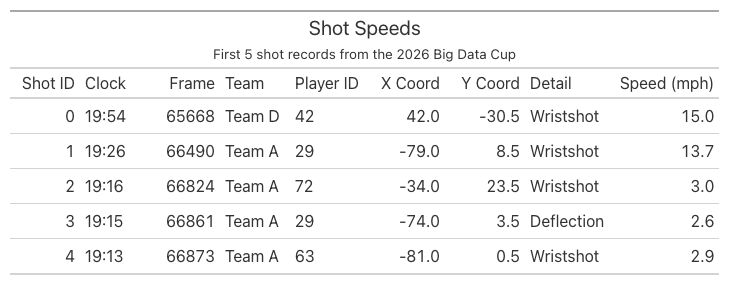
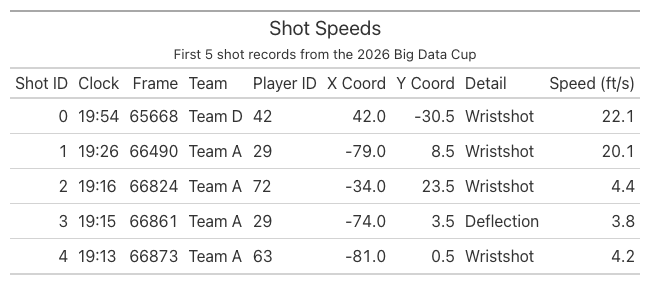
Finish Pressure

diff --git a/docs/posts/feature-based-xg/index.html b/docs/posts/feature-based-xg/index.html
@@ -232,7 +232,7 @@ window.Quarto = {
 <section id="data-import" class="level3">
 <h3 class="anchored" data-anchor-id="data-import">Data Import</h3>
 <p>We import the data from the Big Data Cup 2026 GitHub repository and tag each events and tracking data with a “Game” id. Then, we convert the clock strings (“MM:SS” / “M:SS”) to total seconds for easier comparison and joining between the events and tracking datasets. The tracking data is separated by period (P1/P2/P3/OT), so we concatenate all the tracking files into one dataset of every tracked player-frame across all games and periods.</p>
-<div id="6edd6732" class="cell" data-execution_count="1">
+<div id="0e2e7f79" class="cell" data-execution_count="1">
 <details class="code-fold">
 <summary>Show code</summary>
 <div class="code-copy-outer-scaffold"><div class="sourceCode cell-code" id="cb1"><pre class="sourceCode python code-with-copy"><code class="sourceCode python"><span id="cb1-1"><a href="#cb1-1" aria-hidden="true" tabindex="-1"></a><span class="im">import</span> polars <span class="im">as</span> pl</span>
@@ -307,7 +307,7 @@ window.Quarto = {
 <h3 class="anchored" data-anchor-id="distribution-of-shot-types">Distribution of Shot Types</h3>
 <p>We look at the distribution of shot types in the events dataset. We filter for <code>Shot</code> and <code>Goal</code> events and count the number of unique occurences of the <code>Detail 1</code> column, which indicates the type of shot taken. We then visualize this distribution using a bar chart.</p>
 <p><img src="./shot_types_distribution.png" class="img-fluid"></p>
-<div id="53c41394" class="cell" data-execution_count="2">
+<div id="be6199d3" class="cell" data-execution_count="2">
 <details class="code-fold">
 <summary>Show code</summary>
 <div class="code-copy-outer-scaffold"><div class="sourceCode cell-code" id="cb2"><pre class="sourceCode python code-with-copy"><code class="sourceCode python"><span id="cb2-1"><a href="#cb2-1" aria-hidden="true" tabindex="-1"></a>shot_types <span class="op">=</span> (</span>
@@ -347,7 +347,7 @@ window.Quarto = {
 <section id="distribution-of-shot-outcomes" class="level3">
 <h3 class="anchored" data-anchor-id="distribution-of-shot-outcomes">Distribution of Shot Outcomes</h3>
 <p>We look at the shot outcomes in the events dataset. We filter for <code>Shot</code> and <code>Goal</code> events and count the number of unique occurences of the <code>Detail 2</code> column, which indicates the outcome of the shot (e.g., On Net, Missed, Blocked).</p>
-<div id="42a410b4" class="cell" data-execution_count="3">
+<div id="33d898da" class="cell" data-execution_count="3">
 <details class="code-fold">
 <summary>Show code</summary>
 <div class="code-copy-outer-scaffold"><div class="sourceCode cell-code" id="cb3"><pre class="sourceCode python code-with-copy"><code class="sourceCode python"><span id="cb3-1"><a href="#cb3-1" aria-hidden="true" tabindex="-1"></a>descriptions <span class="op">=</span> {</span>
@@ -427,7 +427,7 @@ window.Quarto = {
 <li><p>The meridian distance <span class="math inline">\(d_m\)</span> is the perpendicular distance from the shot location to the meridian (the “royal road” running down the center of the ice).</p></li>
 <li><p>The shot distance <span class="math inline">\(d\)</span> is the distance between the shot location and the goal.</p></li>
 </ol>
-<div id="d0cc8ea4" class="cell" data-execution_count="4">
+<div id="af120d3a" class="cell" data-execution_count="4">
 <details class="code-fold">
 <summary>Show code</summary>
 <div class="code-copy-outer-scaffold"><div class="sourceCode cell-code" id="cb4"><pre class="sourceCode python code-with-copy"><code class="sourceCode python"><span id="cb4-1"><a href="#cb4-1" aria-hidden="true" tabindex="-1"></a>(</span>
@@ -470,7 +470,7 @@ window.Quarto = {
 <span id="cb4-38"><a href="#cb4-38" aria-hidden="true" tabindex="-1"></a>)</span></code></pre></div><button title="Copy to Clipboard" class="code-copy-button"><i class="bi"></i></button></div>
 </details>
 </div>
-<p>TODO: GT Table</p>
+<p><img src="shot_location_table.png" class="img-fluid"></p>
 </section>
 <section id="shooter-motion" class="level3">
 <h3 class="anchored" data-anchor-id="shooter-motion">Shooter Motion</h3>
@@ -498,7 +498,7 @@ window.Quarto = {
 <li><p><code>MAX_SPEED_MPH = 30.0</code> is the maximum speed (in mph) we consider valid for our model. The maximum skating speed for an NHL player is just under 25 mph, so a speed above 30 mph is determined a tracking glitch.</p></li>
 </ol>
 <p>To compute player speed, we first restrict the tracking data to player rows, excluding the puck. We read the frame number from the suffix of the <code>Image Id</code> column, so that an <code>Image Id</code> of <code>2025-10-11 Team A @ Team D_065468</code> gives frame <code>065468</code>. After sorting each player’s frames in chronological order, we take the change in <code>x</code> and <code>y</code> across the <code>SMOOTH_K</code>-frame central-difference window and divide the resulting Euclidean displacement by the elapsed time, converting frames to seconds with the <code>FPS = 30</code> factor introduced above. We call this new dataset “players”.</p>
-<div id="87658df4" class="cell" data-execution_count="5">
+<div id="92ba73ad" class="cell" data-execution_count="5">
 <details class="code-fold">
 <summary>Show code</summary>
 <div class="code-copy-outer-scaffold"><div class="sourceCode cell-code" id="cb5"><pre class="sourceCode python code-with-copy"><code class="sourceCode python"><span id="cb5-1"><a href="#cb5-1" aria-hidden="true" tabindex="-1"></a>FPS <span class="op">=</span> <span class="dv">30</span>                  </span>
@@ -545,7 +545,7 @@ window.Quarto = {
 </details>
 </div>
 <p>Now that we have player speed, we filter the events data for shots and goals, calling this dataset “shots”. We left join “players” onto “shots” to create shooter tracking data, then keep only the shooter’s frames within one second of the shot. Among those, we pick the frame whose tracked position is closest (by Euclidean distance) to where the event records the shot — the moment the tracking best lines up with the recorded release point — and read off the shooter’s speed there. The result is the shots dataset with one shooter-speed column per shot, which we label with <code>shot_id</code>.</p>
-<div id="eb50ac96" class="cell" data-execution_count="6">
+<div id="0e7569f3" class="cell" data-execution_count="6">
 <details class="code-fold">
 <summary>Show code</summary>
 <div class="code-copy-outer-scaffold"><div class="sourceCode cell-code" id="cb6"><pre class="sourceCode python code-with-copy"><code class="sourceCode python"><span id="cb6-1"><a href="#cb6-1" aria-hidden="true" tabindex="-1"></a>shots <span class="op">=</span> (</span>
@@ -620,13 +620,17 @@ window.Quarto = {
 <span id="cb6-70"><a href="#cb6-70" aria-hidden="true" tabindex="-1"></a>)</span></code></pre></div><button title="Copy to Clipboard" class="code-copy-button"><i class="bi"></i></button></div>
 </details>
 </div>
-<p><img src="shot_speeds_table.png" class="img-fluid"></p>
+<div class="quarto-figure quarto-figure-center">
+<figure class="figure">
+<p><img src="shot_speeds_table.png" class="img-fluid quarto-figure quarto-figure-center figure-img"></p>
+</figure>
+</div>
 </section>
 <section id="pressure" class="level3">
 <h3 class="anchored" data-anchor-id="pressure">Pressure</h3>
 <p>In Section 2.4.1.3 of the thesis, pressure is defined as the distance from the shot location to the closest and second-closest defending skater. A continuous distance is more descriptive than counting defenders within 6 ft, and adding the second-closest defender captures pressure from multiple defenders.</p>
-<p>We join the shots dataset to every defending skater and measure the distance between the defender and the shot. We filter for the closest and second-closest defender to find the distance from the shot location to the closest and second closest defenders.</p>
-<div id="96d79c64" class="cell" data-execution_count="7">
+<p>To compute pressure, we remove goaltenders from the players dataset and left join the remaining defenders onto the shots dataset, computing the distance from each defender to the shot. For each shot, we then keep the two smallest distances, giving the distance from the shot location to the closest and second-closest defenders.</p>
+<div id="22e6030e" class="cell" data-execution_count="7">
 <details class="code-fold">
 <summary>Show code</summary>
 <div class="code-copy-outer-scaffold"><div class="sourceCode cell-code" id="cb7"><pre class="sourceCode python code-with-copy"><code class="sourceCode python"><span id="cb7-1"><a href="#cb7-1" aria-hidden="true" tabindex="-1"></a><span class="co"># Defending skaters only: opposite tracking team, real jersey numbers, no goalies.</span></span>
@@ -688,14 +692,18 @@ window.Quarto = {
 <span id="cb7-57"><a href="#cb7-57" aria-hidden="true" tabindex="-1"></a>)</span></code></pre></div><button title="Copy to Clipboard" class="code-copy-button"><i class="bi"></i></button></div>
 </details>
 </div>
-<p>TODO: GT Table</p>
+<div class="quarto-figure quarto-figure-center">
+<figure class="figure">
+<p><img src="pressure_table.png" class="img-fluid quarto-figure quarto-figure-center figure-img"></p>
+</figure>
+</div>
 </section>
 <section id="pre-shot-movement" class="level3">
 <h3 class="anchored" data-anchor-id="pre-shot-movement">Pre-Shot Movement</h3>
 <p>Rink Coordinates:</p>
 <div class="quarto-figure quarto-figure-center">
 <figure class="figure">
-<p><img src="./rink_coords.png" class="img-fluid quarto-figure quarto-figure-center figure-img" style="width:80.0%"></p>
+<p><img src="rink_coords_meridian.png" class="img-fluid quarto-figure quarto-figure-center figure-img" style="width:70.0%"></p>
 </figure>
 </div>
 <p>Pre-shot movement features, focused on lateral puck movement (east-west):</p>
@@ -704,8 +712,8 @@ window.Quarto = {
 <li>meridian_cross_dist – where it crossed, as distance to the goal line</li>
 <li>avg_puck_speed – average puck speed in the 1 s before the shot</li>
 </ol>
-<p>The “meridian” is the Y = 0 line running net-to-net down the center of the ice; the puck crosses it when its Y coordinate changes sign (lateral / east-west movement, which forces the goalie across and raises shot danger). Features 1 and 2 are only defined when the crossing happened within 5 s before the shot.</p>
-<div id="26e1dbac" class="cell" data-execution_count="8">
+<p>The “meridian” is the Y = 0 line running net-to-net down the center of the ice; the puck crosses it when its Y coordinate changes sign which forces the goalie across and raises shot danger. Features 1 and 2 are only defined when the crossing happened within 5 s before the shot.</p>
+<div id="bd29b075" class="cell" data-execution_count="8">
 <details class="code-fold">
 <summary>Show code</summary>
 <div class="code-copy-outer-scaffold"><div class="sourceCode cell-code" id="cb8"><pre class="sourceCode python code-with-copy"><code class="sourceCode python"><span id="cb8-1"><a href="#cb8-1" aria-hidden="true" tabindex="-1"></a><span class="co"># The puck moves far faster than skaters, so the 30 mph skater cap doesn't apply; we</span></span>
@@ -806,11 +814,12 @@ window.Quarto = {
 <p>Feature 3: For every shot, join in all puck tracking samples from the same period within 5 seconds (150 frames) before the shot. Average puck speed over the 1 second (30 frames) before the shot. Captures how fast the puck was moving into the shot.</p>
 <p>Features 1 and 2: Finds the most recent meridian crossing within the 5 s window. A crossing is a moment when the puck crosses the center line of the rink. We’ll identify this by checking when the puck’s y-coordinate changes sign (from positive to negative or vice versa) within the 5-second window before the shot.</p>
 <p><code>time_since_meridian = (shot_frame − Frame) / FPS</code> gives us the time in seconds since the puck last crossed the meridian before the shot was taken. <code>meridian_cross_dist = 89 − x_cross</code> is calculated as the distance from where the puck crossed the meridian to the goal line (89 feet), with negative values indicating crossings behind the net.</p>
+<p>TODO: GT Table</p>
 </section>
 <section id="traffic" class="level3">
 <h3 class="anchored" data-anchor-id="traffic">Traffic</h3>
 <p>We model “traffic” by projecting each skater onto the goal line via a straight line from the shooter, then summing the Gaussian-weighted coverage of the 6-ft goal face (y ∈ [−3, 3]).</p>
-<div id="755ebd0c" class="cell" data-execution_count="9">
+<div id="7f438c7b" class="cell" data-execution_count="9">
 <details class="code-fold">
 <summary>Show code</summary>
 <div class="code-copy-outer-scaffold"><div class="sourceCode cell-code" id="cb9"><pre class="sourceCode python code-with-copy"><code class="sourceCode python"><span id="cb9-1"><a href="#cb9-1" aria-hidden="true" tabindex="-1"></a><span class="im">import</span> numpy <span class="im">as</span> np</span>
@@ -900,6 +909,7 @@ window.Quarto = {
 <span id="cb9-85"><a href="#cb9-85" aria-hidden="true" tabindex="-1"></a>)</span></code></pre></div><button title="Copy to Clipboard" class="code-copy-button"><i class="bi"></i></button></div>
 </details>
 </div>
+<p>TODO: GT Table</p>
 </section>
 <section id="goaltender-positioning" class="level3">
 <h3 class="anchored" data-anchor-id="goaltender-positioning">Goaltender Positioning</h3>
@@ -912,7 +922,7 @@ window.Quarto = {
 <p>Angle Discrepancy: <span class="math display">\[\zeta = \arccos!\left(\frac{s \cdot g}{|s|,|g|}\right)\times\frac{180}{\pi}\]</span></p>
 <p>Angle between the line to the shooter and the line to the goaltender, in degrees. A well-positioned goalie should be close to 0° (in line with the shooter and goal center); a goalie caught out of position will have a larger angle.</p>
 <p>Goaltender Depth: Straight-line distance from the goaltender to the goal center, i.e.&nbsp;how far out of the crease the goalie has come.</p>
-<div id="2134dce6" class="cell" data-execution_count="10">
+<div id="6c891292" class="cell" data-execution_count="10">
 <details class="code-fold">
 <summary>Show code</summary>
 <div class="code-copy-outer-scaffold"><div class="sourceCode cell-code" id="cb10"><pre class="sourceCode python code-with-copy"><code class="sourceCode python"><span id="cb10-1"><a href="#cb10-1" aria-hidden="true" tabindex="-1"></a><span class="co"># Per shot: defending team, release frame, shot location in tracking coords, goal center.</span></span>
@@ -991,6 +1001,7 @@ window.Quarto = {
 <span id="cb10-74"><a href="#cb10-74" aria-hidden="true" tabindex="-1"></a>)</span></code></pre></div><button title="Copy to Clipboard" class="code-copy-button"><i class="bi"></i></button></div>
 </details>
 </div>
+<p>TODO: GT Table</p>
 </section>
 </section>
 <section id="feature-based-expected-goals-xg-model" class="level2">

diff --git a/docs/index.html b/docs/index.html
@@ -205,7 +205,7 @@ window.Quarto = {
 
 <div class="quarto-listing quarto-listing-container-default" id="listing-listing">
 <div class="list quarto-listing-default">
-<div class="quarto-post image-right" data-index="0" data-listing-date-sort="1781668800000" data-listing-file-modified-sort="1781486930645" data-listing-date-modified-sort="NaN" data-listing-reading-time-sort="29" data-listing-word-count-sort="5760">
+<div class="quarto-post image-right" data-index="0" data-listing-date-sort="1781668800000" data-listing-file-modified-sort="1781569673699" data-listing-date-modified-sort="NaN" data-listing-reading-time-sort="29" data-listing-word-count-sort="5769">
 <div class="thumbnail"><a href="./posts/feature-based-xg/index.html" class="no-external">
 
 <img loading="lazy" src="./posts/feature-based-xg/thumbnail.png" class="thumbnail-image">
